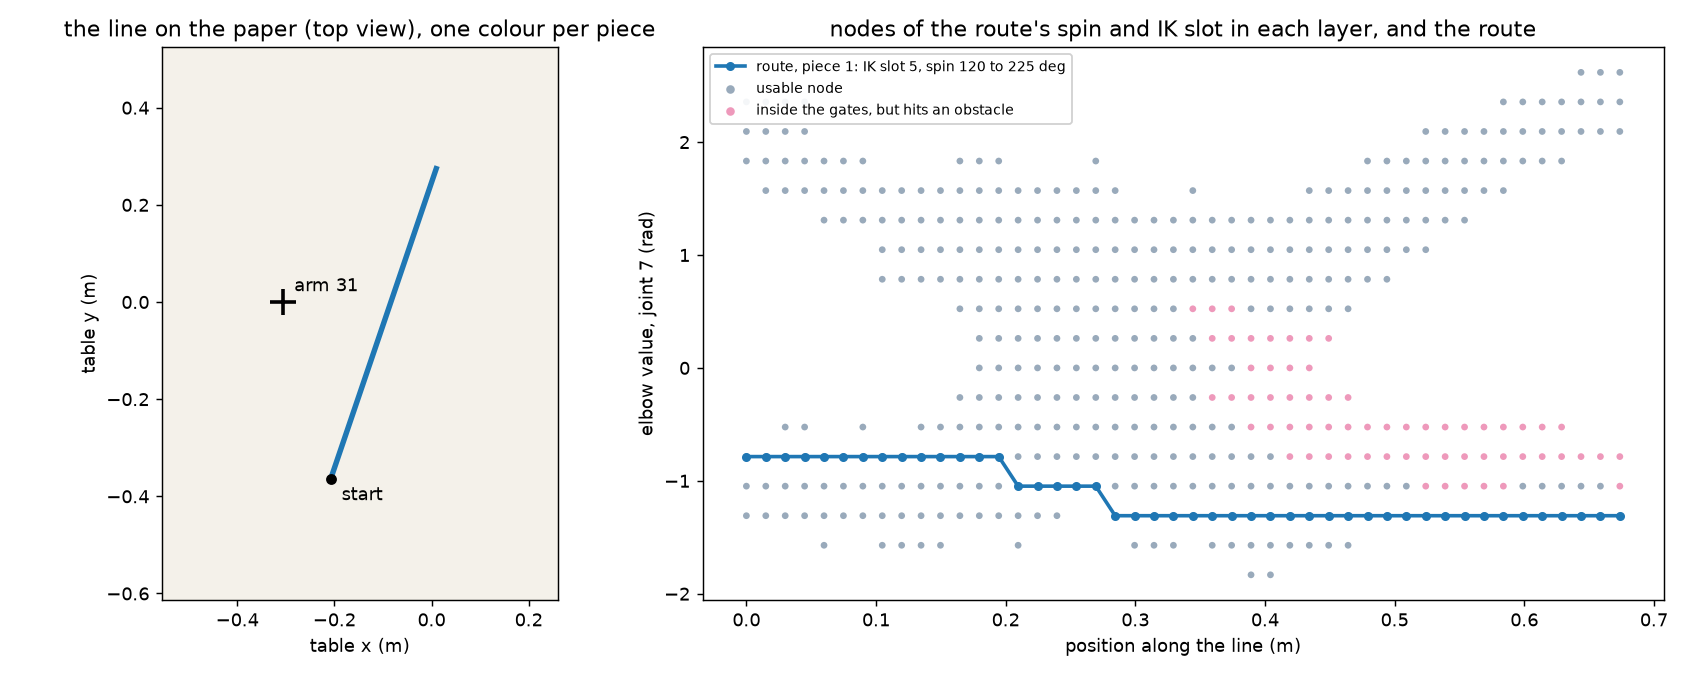
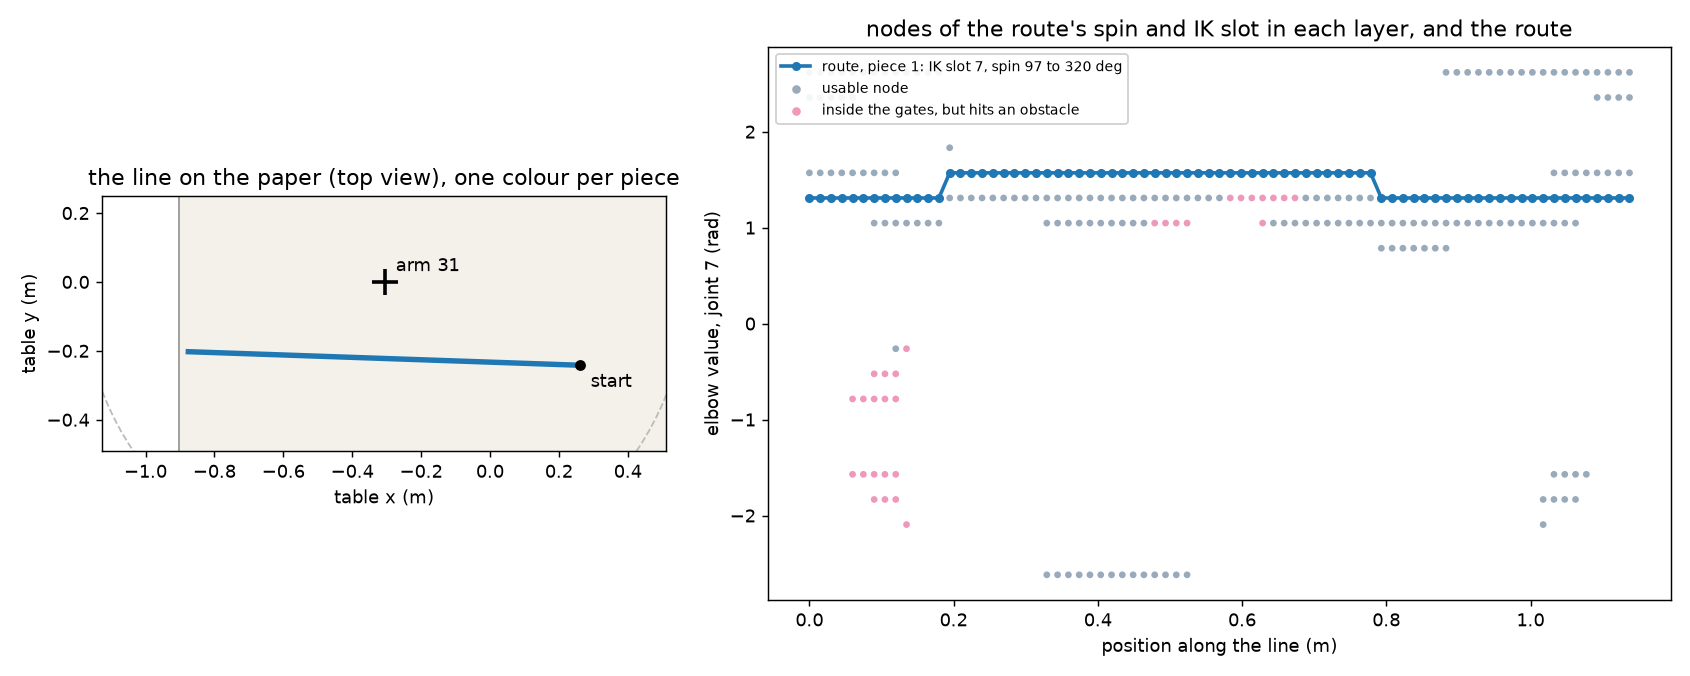
deployment local planner: measured on both arms, floors in the tests, module page filled
With only the paper as obstacle the new planner draws at least as much as
the old one on every one of 765 lines and more on 246; everything it leaves
is beyond the arm's reach. With the phase obstacles the loss is the walls.

Claude-Session: https://claude.ai/code/session_01TYL3Cueh7sskNU8Uz21h7x

diff --git a/deployment/tests/test_local.py b/deployment/tests/test_local.py
@@ -27,9 +27,13 @@ WORKERS = max(1, min(32, (os.cpu_count() or 2) - 2))
 
 # Floors: the shares measured on the fixed set (docs/modules/local.md), rounded down.  A
 # change that draws less than this is a regression.
-FLOOR_DRAWN = {(31, "word"): 0.92, (31, "corpus"): 0.0, (31, "lines"): 0.0, (31, "curves"): 0.0,
-               (13, "word"): 0.0, (13, "corpus"): 0.0, (13, "lines"): 0.0, (13, "curves"): 0.0}
-FLOOR_SINGLE = {k: 0.0 for k in FLOOR_DRAWN}
+# Measured 2026-09-29 (real obstacles, no table; docs/modules/local.md): drawn 0.929 / 0.889 /
+# 0.951 / 0.822 for arm 31 and 0.926 / 0.951 / 0.955 / 0.877 for arm 13; length drawn whole in
+# one piece 0.918 / 0.261 / 0.710 / 0.595 and 0.918 / 0.797 / 0.745 / 0.700.
+FLOOR_DRAWN = {(31, "word"): 0.92, (31, "corpus"): 0.88, (31, "lines"): 0.94, (31, "curves"): 0.81,
+               (13, "word"): 0.92, (13, "corpus"): 0.94, (13, "lines"): 0.95, (13, "curves"): 0.87}
+FLOOR_SINGLE = {(31, "word"): 0.91, (31, "corpus"): 0.25, (31, "lines"): 0.70, (31, "curves"): 0.58,
+                (13, "word"): 0.91, (13, "corpus"): 0.79, (13, "lines"): 0.74, (13, "curves"): 0.69}
 
 
 def _problem(arm_id=31):

diff --git a/deployment/tests/local_cases.py b/deployment/tests/local_cases.py
@@ -383,7 +383,7 @@ def figure(rig, arm_id: int, line_table: Line, path) -> None:
             graph.scatter(np.full(same.sum(), s[k]), lat.q7s[L.q7[same]],
                           c=np.where(L.free[same], "#9ab", "#e9b"), s=14, lw=0, zorder=1)
             q7_route.append(lat.q7s[L.q7[node]])
-        spins = [np.rad2deg(lat.params(k, run.nodes[j:j + 1])[0][0])
+        spins = [np.rad2deg(lat.params(k, run.nodes[j:j + 1])[0][0]) % 360
                  for j, k in enumerate(range(run.k0, run.k1 + 1))]
         graph.plot(s[run.k0:run.k1 + 1], q7_route, "-o", color=colours[i % 10], ms=4, lw=2,
                    zorder=2, label=f"route, piece {i + 1}: IK slot {int(slot[0])}, spin "

diff --git a/deployment/docs/modules/local.md b/deployment/docs/modules/local.md
@@ -7,11 +7,12 @@ the canvas or the other arms: obstacles arrive as geometry, and the paper is the
 
 Files: `aris/local/` — `planner.py` (the one call), `lattice.py` (the graph), `search.py` (the
 sweep), `backout.py` (the exact path and its check), `pieces.py` (pieces, leftovers,
-alternatives), `gates.py` (what a configuration must pass), `polyline.py`, `settings.py`.
+alternatives), `gates.py` (what a configuration must pass), `table.py` (the kinematic table),
+`polyline.py`, `settings.py`.
 
 ## In and out
 
-`plan(arm, lines, obstacles, rules, gates, workers=1) -> (bunches, leftovers)`
+`plan(arm, lines, obstacles, rules, gates, workers=1, cache_dir=None) -> (bunches, leftovers)`
 
 - **In:** lines (pen-tip polylines in the base frame), the obstacles, the drawing rules (draw
   speed, largest lean, shortest piece), the gates (joint-limit distance, singular value,
@@ -33,7 +34,8 @@ alternatives), `gates.py` (what a configuration must pass), `polyline.py`, `sett
 
 One **layer** every 1.5 cm along the line. A **node** is one choice of
 
-- spin: the hand turned about the paper normal, 24 values (15 degrees apart, a circle);
+- spin: the hand turned about the paper normal, counted from the direction pointing away from
+  the base axis, 24 values (15 degrees apart, a circle);
 - lean: the pen tilted off its nominal direction, a 2-vector; zero, or 12 more up to
   `rules.lean_max` (two rings of six);
 - elbow value: joint 7, which the IK takes as given, 21 values 15 degrees apart;
@@ -41,12 +43,21 @@ One **layer** every 1.5 cm along the line. A **node** is one choice of
 
 With the tip on the line that is one joint configuration (`arm.hand_pose`, then `arm.ik`).
 A node is **usable** when it passes the gates. Cheap tests first: joint limits and singular
-value on all answers; then the arm against itself and against the paper; the other obstacles
-last, only on what survived. The arm's links keep the paper's 20 mm; the parts bolted to the hand
-may come as close as touching (see "what it cannot do").
+value on all answers; then the arm against the paper and against itself; the other obstacles
+last, only on what survived. Against the paper the pen is free, the tool (holder, blades, hand)
+keeps the paper's `tool_margin` and the links its 20 mm (the kernel's rule).
 
-**Edges** go from one layer to the next only, between neighbours (same slot; same or next spin,
-elbow value and lean; spin wraps round), and only when no joint moves more than 0.35 rad. That
+**The kinematic table** (with `cache_dir`). The arm is symmetric about its base axis: turning
+the tip about the axis only adds that angle to joint 1. So for a paper square to the axis the
+nodes depend only on the tip's distance from the axis, the spin counted from the outward
+direction, lean, elbow value and slot, and are tabulated once (every 1 cm of distance) with
+their singular value, limit margins and clearances to the paper and to the arm itself. A node
+is then a lookup, blended between the two tabulated distances; joint 1's limit and the
+obstacles stay live. The table only guides: the exact path below is solved and verified as
+always. Without `cache_dir` the nodes are solved with the IK.
+
+**Edges** go from one layer to the next only, between neighbours (same slot; same or next
+absolute spin, elbow value and lean; spin wraps round), and only when no joint moves more than 0.35 rad. That
 cap keeps the arm on one branch while the pen is down. Spins and elbow values are spaced alike on
 purpose: at zero lean both turn about the paper normal, so a step of both together is a small
 move, and the diagonal edges are the cheap ones.
@@ -81,6 +92,12 @@ samples included (`path_clearance`). If the smooth curve fails, the curve throug
 tried; if that fails too, the nodes at the failure are banned and the sweep runs again. An
 unverified plan is never returned.
 
+**Piece ends.** Next to an undrawn stretch the route stops at a layer, but the arm can usually
+go a little further. The exact solve walks on past the end layer (and back before the first,
+never into a neighbouring piece), holding the end's spin, lean and elbow value, until a gate or
+the clearance stops it; the longer piece is kept if its whole path verifies. So a piece ends
+where the arm really has to stop, not up to a layer (1.5 cm) short of it.
+
 ## The alternatives
 
 For each piece, one more sweep over its layers with no lifts gives, for every node of its last
@@ -98,16 +115,54 @@ the path, which is charged against the clearance), is not returned.
 
 ## What it cannot do
 
-- The parts bolted to the hand (hand, finger blades, holder, pencil tail) are only required not
-  to touch the paper while drawing. With the rig's 20 mm paper clearance for the whole body no
-  drawing configuration exists: the holder's cap capsule is 0.03 mm above the paper at zero
-  lean. This rule is local to this module (`gates.py`) until the kernel or the rig has one.
-- Pieces end at layer positions, so a piece next to an unreachable stretch can stop up to one
-  layer (1.5 cm) short of where the arm could still reach.
-- The graph is rebuilt for every line; nothing is shared between lines (see
-  `OPTIMIZATION_NOTES.md`, items 1, 2, 6, 7).
-- The draw time is timed corner to corner; the sequencer re-times the motion it flies.
+- Timing is corner to corner (the pen stops at every corner sharper than 30 degrees); to be
+  replaced by one call now that the timing step is fast.
+- The graph is rebuilt for every line; nothing is shared between lines. Checking every
+  surviving node against the obstacles is most of the time (see below).
+- The kinematic table assumes the paper square to the base axis; on a tilted (calibrated)
+  paper it still guides, and the exact solve uses the true plane.
 
 ## Measured
 
-(filled in below)
+Fixed set (`tests/local_cases.py`), 2026-09-29: the word "unknown" placed under the arm, the
+five old corpus drawings cut to 0.80 m from the arm's axis, 200 random lines and 100 random
+curves inside the reach (0.784 m; lines under the base and along the rim included). Arm 31 in
+phase 2, arm 13 in phase 1, obstacles from `rig.obstacles_for`. CPU seconds on a machine at load
+40-70. The old planner is `stroke_api.plan_stroke` (lateral holder, 15 degree tilt), offered the
+rest of a line again after each refusal; it knows no walls and no parked arms.
+
+| arm, set | length | drawn | drawn, only the paper | old planner | whole in one piece (lines / length) | blocked by | CPU s per line, median / p95 | old s per line, median / p95 |
+|---|---|---|---|---|---|---|---|---|
+| 31 word | 2.6 m | 0.929 | 0.929 | 0.679 | 92 % / 92 % | – | 0.43 / 0.81 | 0.3 / 121 |
+| 31 corpus | 33.8 m | 0.889 | 0.982 | 0.733 | 44 % / 26 % | walls 3.08 m, arm 71 0.03 m | 1.61 / 4.86 | 7.1 / 388 |
+| 31 lines | 90.0 m | 0.951 | 1.000 | 0.932 | 74 % / 71 % | walls 4.33 m | 1.25 / 6.13 | 1.4 / 134 |
+| 31 curves | 60.7 m | 0.822 | 1.000 | 0.857 | 68 % / 59 % | walls 10.73 m | 1.77 / 5.39 | 4.6 / 253 |
+| 13 word | 2.6 m | 0.926 | 0.929 | 0.679 | 92 % / 92 % | arm 17 0.01 m | 0.37 / 0.65 | 1.7 / 130 |
+| 13 corpus | 41.1 m | 0.951 | 0.991 | 0.947 | 80 % / 80 % | wall 1.56 m, arm 17 0.01 m | 1.61 / 2.13 | 4.4 / 80 |
+| 13 lines | 82.6 m | 0.955 | 1.000 | 0.929 | 81 % / 75 % | wall 3.70 m | 0.77 / 4.58 | 1.5 / 94 |
+| 13 curves | 51.7 m | 0.877 | 1.000 | 0.848 | 77 % / 70 % | wall 6.34 m | 1.00 / 3.81 | 1.4 / 340 |
+
+- With only the paper as obstacle the planner draws everything inside the reach; what is left
+  is the band between 0.78 and 0.80 m (corpus) and the last "n" of the word at the rim. It
+  draws at least what the old planner draws on every line of every set, and more on 246 of 765.
+- With the real obstacles every line where it draws less than the old planner is a stretch it
+  reports as blocked by a wall (17-31 and 31-97 for arm 31, 13-71 for arm 13) or a parked arm,
+  which the old planner does not know.
+- The lean is used on 1 to 44 lines per set, up to 15 degrees.
+- Leftovers other than "blocked" (real obstacles): unreachable 0.02 to 0.62 m per set (the rim).
+- CPU split (real obstacles): building the graph 73-78 %, checking the exact path 12-17 %,
+  search 4-6 %, exact path 1-3 %, timing 1-4 %. Nodes per line 3 000-15 000 (median), IK poses
+  8 000-26 000 (median); 0 to 71 searches repeated after an exact path failed, per set.
+- Alternatives: 4 plans for 78 % of the 795 pieces, at least 2 for 95 %.
+- **Kinematic table** (`cache_dir`): 181 MB, built in 14 s of CPU once. Share drawn against the
+  live solve: 0.9238 / 0.9290 (word; 13 mm at the rim), 0.8874 / 0.8892, 0.9514 / 0.9510,
+  0.8202 / 0.8218 for arm 31; 0.9177 / 0.9255 (word; 20 mm), 0.9491 / 0.9511, 0.9547 / 0.9552,
+  0.8768 / 0.8769 for arm 13. CPU per line, median, table / live: 0.35 / 0.43, 1.10 / 1.61,
+  0.95 / 1.25, 1.38 / 1.77 (arm 31); 0.32 / 0.37, 1.07 / 1.61, 0.50 / 0.77, 0.73 / 1.00 (arm 13).
+  IK poses per line drop from 8 000-26 000 to 450-1 800. What is left of the graph's time is the
+  check of every surviving node against the obstacles.
+
+Tests: `pytest tests/test_local.py -m "not slow"` (under a minute): degenerate lines, the search
+on a toy graph, a simple line, same answer with 1 and 8 workers and from a fresh process. Slow:
+the whole fixed set (every line covered exactly once, every plan and its reverse verified
+again from outside, the shares above as floors) and the table against the live solve.

diff --git a/deployment/docs/STATUS.md b/deployment/docs/STATUS.md
@@ -26,30 +26,34 @@ pytest tests -q -m "not slow"`, under a minute).
 | `calib` | not started (round 6); Pete builds the hardware (dimple plates, pin) | |
 | `gui` | not started (round 7) | |
 
-## Local planner against the old planner (arm 31, measured 2026-09-29)
+## Local planner against the old planner (both arms, measured 2026-09-29)
 
 Share of line length drawn. "Paper only" is the fair comparison, because the old planner knows
 no walls. Old planner: `stroke_api.plan_stroke`, tilt 15, the rest of a line re-offered after
-every split.
+every split. CPU per line is the median on a loaded machine.
 
-| set | length | new, real obstacles | new, paper only | old |
-|---|---|---|---|---|
-| word "unknown" | 2.59 m | 0.929 | 0.929 | 0.679 |
-| corpus, within 0.80 m | 33.75 m | 0.889 | 0.982 | 0.733 |
-| random lines | 90.0 m | 0.951 | 1.000 | 0.932 |
-| random curves | 60.7 m | 0.822 | 1.000 | 0.857 |
+| arm, set | new, real obstacles | new, paper only | old | CPU s/line new (live / table) | CPU s/line old |
+|---|---|---|---|---|---|
+| 31 word | 0.929 | 0.929 | 0.679 | 0.43 / 0.35 | 0.3 |
+| 31 corpus | 0.889 | 0.982 | 0.733 | 1.61 / 1.10 | 7.1 |
+| 31 lines | 0.951 | 1.000 | 0.932 | 1.25 / 0.95 | 1.4 |
+| 31 curves | 0.822 | 1.000 | 0.857 | 1.77 / 1.38 | 4.6 |
+| 13 word | 0.926 | 0.929 | 0.679 | 0.37 / 0.32 | 1.7 |
+| 13 corpus | 0.951 | 0.991 | 0.947 | 1.61 / 1.07 | 4.4 |
+| 13 lines | 0.955 | 1.000 | 0.929 | 0.77 / 0.50 | 1.5 |
+| 13 curves | 0.877 | 1.000 | 0.848 | 1.00 / 0.73 | 1.4 |
 
 - With only the paper, the new planner draws at least as much as the old one on EVERY line, and
-  more on 124 of them. What it does not draw lies beyond the arm's reach of 0.784 m.
-- With the real obstacles, what it draws less than the old planner is, to the centimetre, what
-  it reports as blocked by the two phase walls.
-- Lines drawn without a lift, paper only: word 92 %, corpus 51 %, lines 92 %, curves 96 %.
-- CPU per line, median (loaded machine): new 0.4 to 1.8 s with real obstacles, 0.2 to 0.6 s with
-  only the paper; old 0.3 to 7 s, with a 95th percentile of 120 to 390 s and a worst case of
-  1 677 s. The new planner's 95th percentile is 1 to 6 s.
-- The kinematic table agrees with the live solve within 0.5 % of the share drawn (0.52 % on the
-  word: 13 mm at the rim) and cuts the graph time by about 30 %. What remains is the obstacle
-  check on every surviving node: 73 to 78 % of the CPU is the graph.
+  more on 246 of the 765. What it does not draw lies beyond the arm's reach (0.784 m).
+- With the real obstacles, every line where it draws less is covered by a stretch it reports as
+  blocked by a wall or a parked arm.
+- The old planner's slowest lines: 80 to 390 s at the 95th percentile, 1 677 s worst.
+- The kinematic table (181 MB, built in 14 s) agrees with the live solve within 0.5 % of the
+  share drawn except on the word (0.52 % and 0.78 %: 13 and 20 mm at the rim), cuts the IK solves
+  per line from 8 000-26 000 to 450-1 800 and the CPU per line by 20 to 35 %.
+- Where the CPU goes: graph 73-78 % (now mostly the obstacle check on every surviving node),
+  exact-path check 12-17 %, search 4-6 %, timing 1-4 %.
+- 795 pieces: 78 % have four alternative plans, 95 % at least two.
 
 ## Work that was running when the session ended
 
@@ -57,13 +61,9 @@ Agents belong to the session that started them; assume they stopped with it. The
 disk and in the snapshot commit. Restart these three tasks from the descriptions below.
 
 1. **Local planner** (`aris/local/`). To do, in order:
-   - run the fixed set for both arms (real obstacles, paper only, with the table) on frozen code:
-     `tests/local_cases.py`; fill the floors in `tests/test_local.py` (only one is real, the rest
-     are placeholders) and the "Measured" section of `docs/modules/local.md`
-   - table against live solve: share drawn must agree within 0.5 % (on 43 lines it did: 0.9702
-     against 0.9709, CPU 0.76 against 1.07 s per line)
-   - the comparison with the old planner: `tests/data/local_reference.npz` exists now
-   - then the lazy obstacle check (approved): obstacle check only on the winning route, a band
+   - DONE: fixed set for both arms, floors in the tests, "Measured" section of the module page,
+     table against live, comparison with the old planner (see the table above)
+   - NEXT: the lazy obstacle check (approved): obstacle check only on the winning route, a band
      around it and the alternatives; re-search when a node fails; fall back to the full check
      after a cap on rounds; accept only if shares agree within 0.5 %
    - delete the module's own tool-to-paper rule (the kernel's rule is in use) and the
